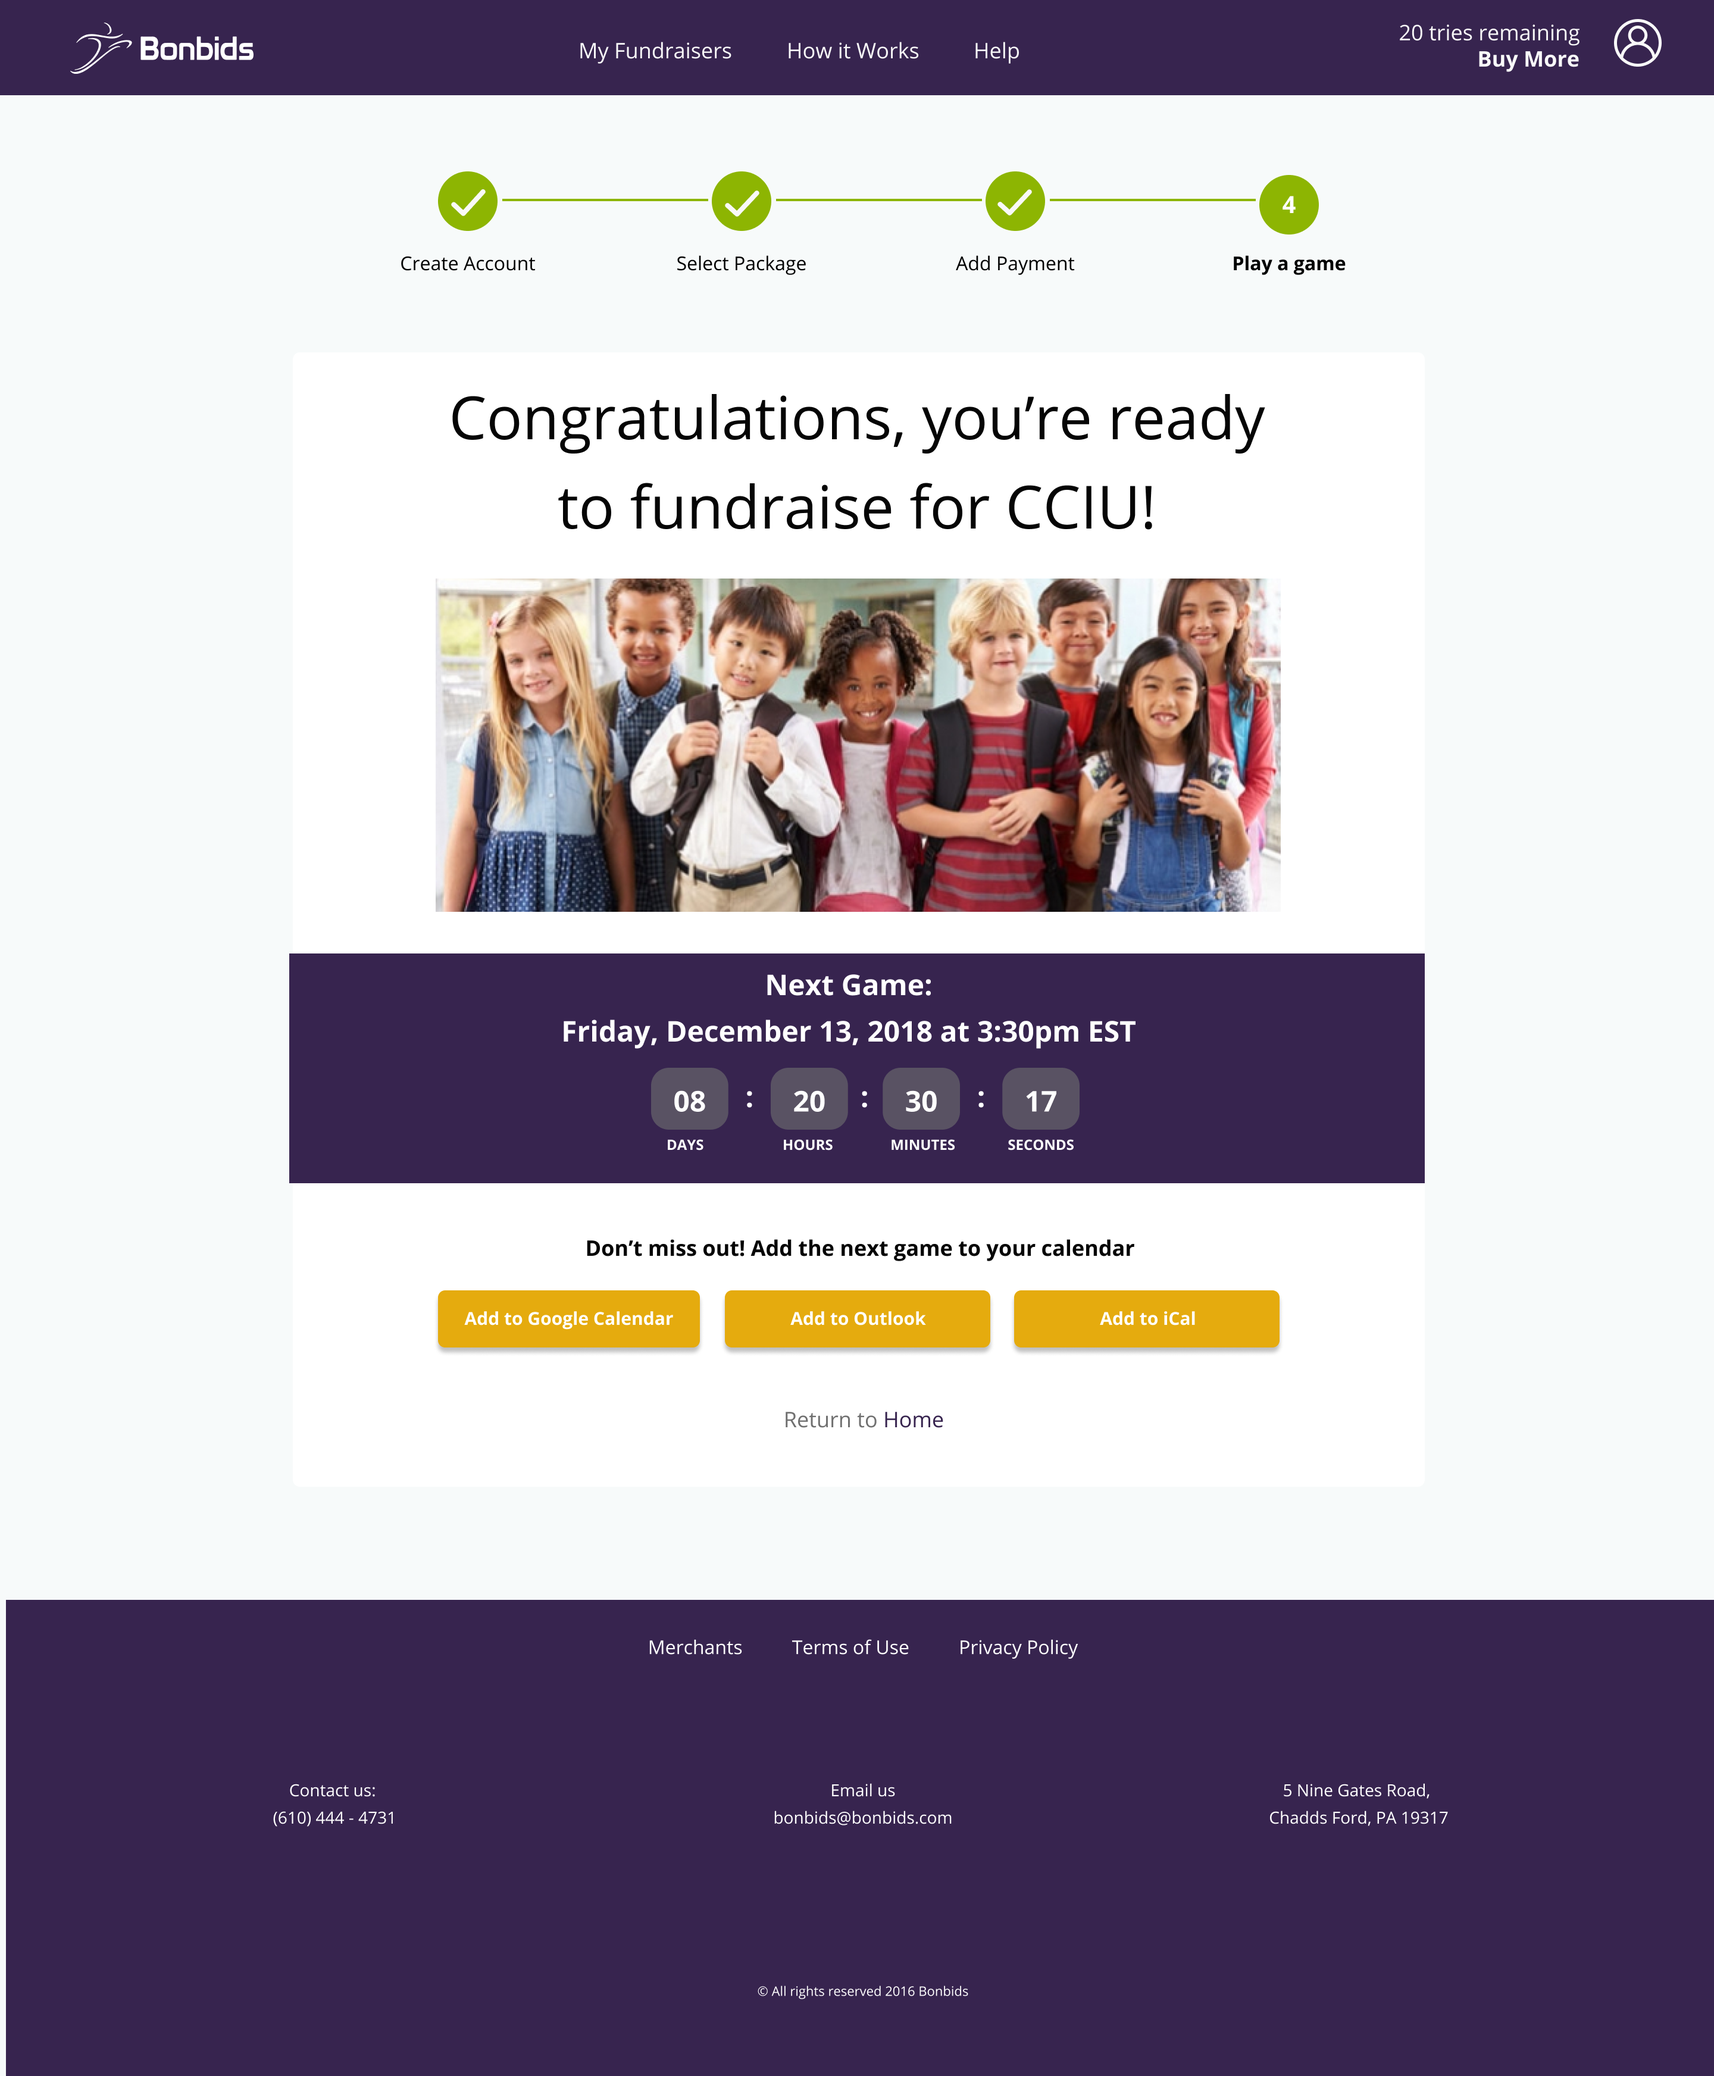
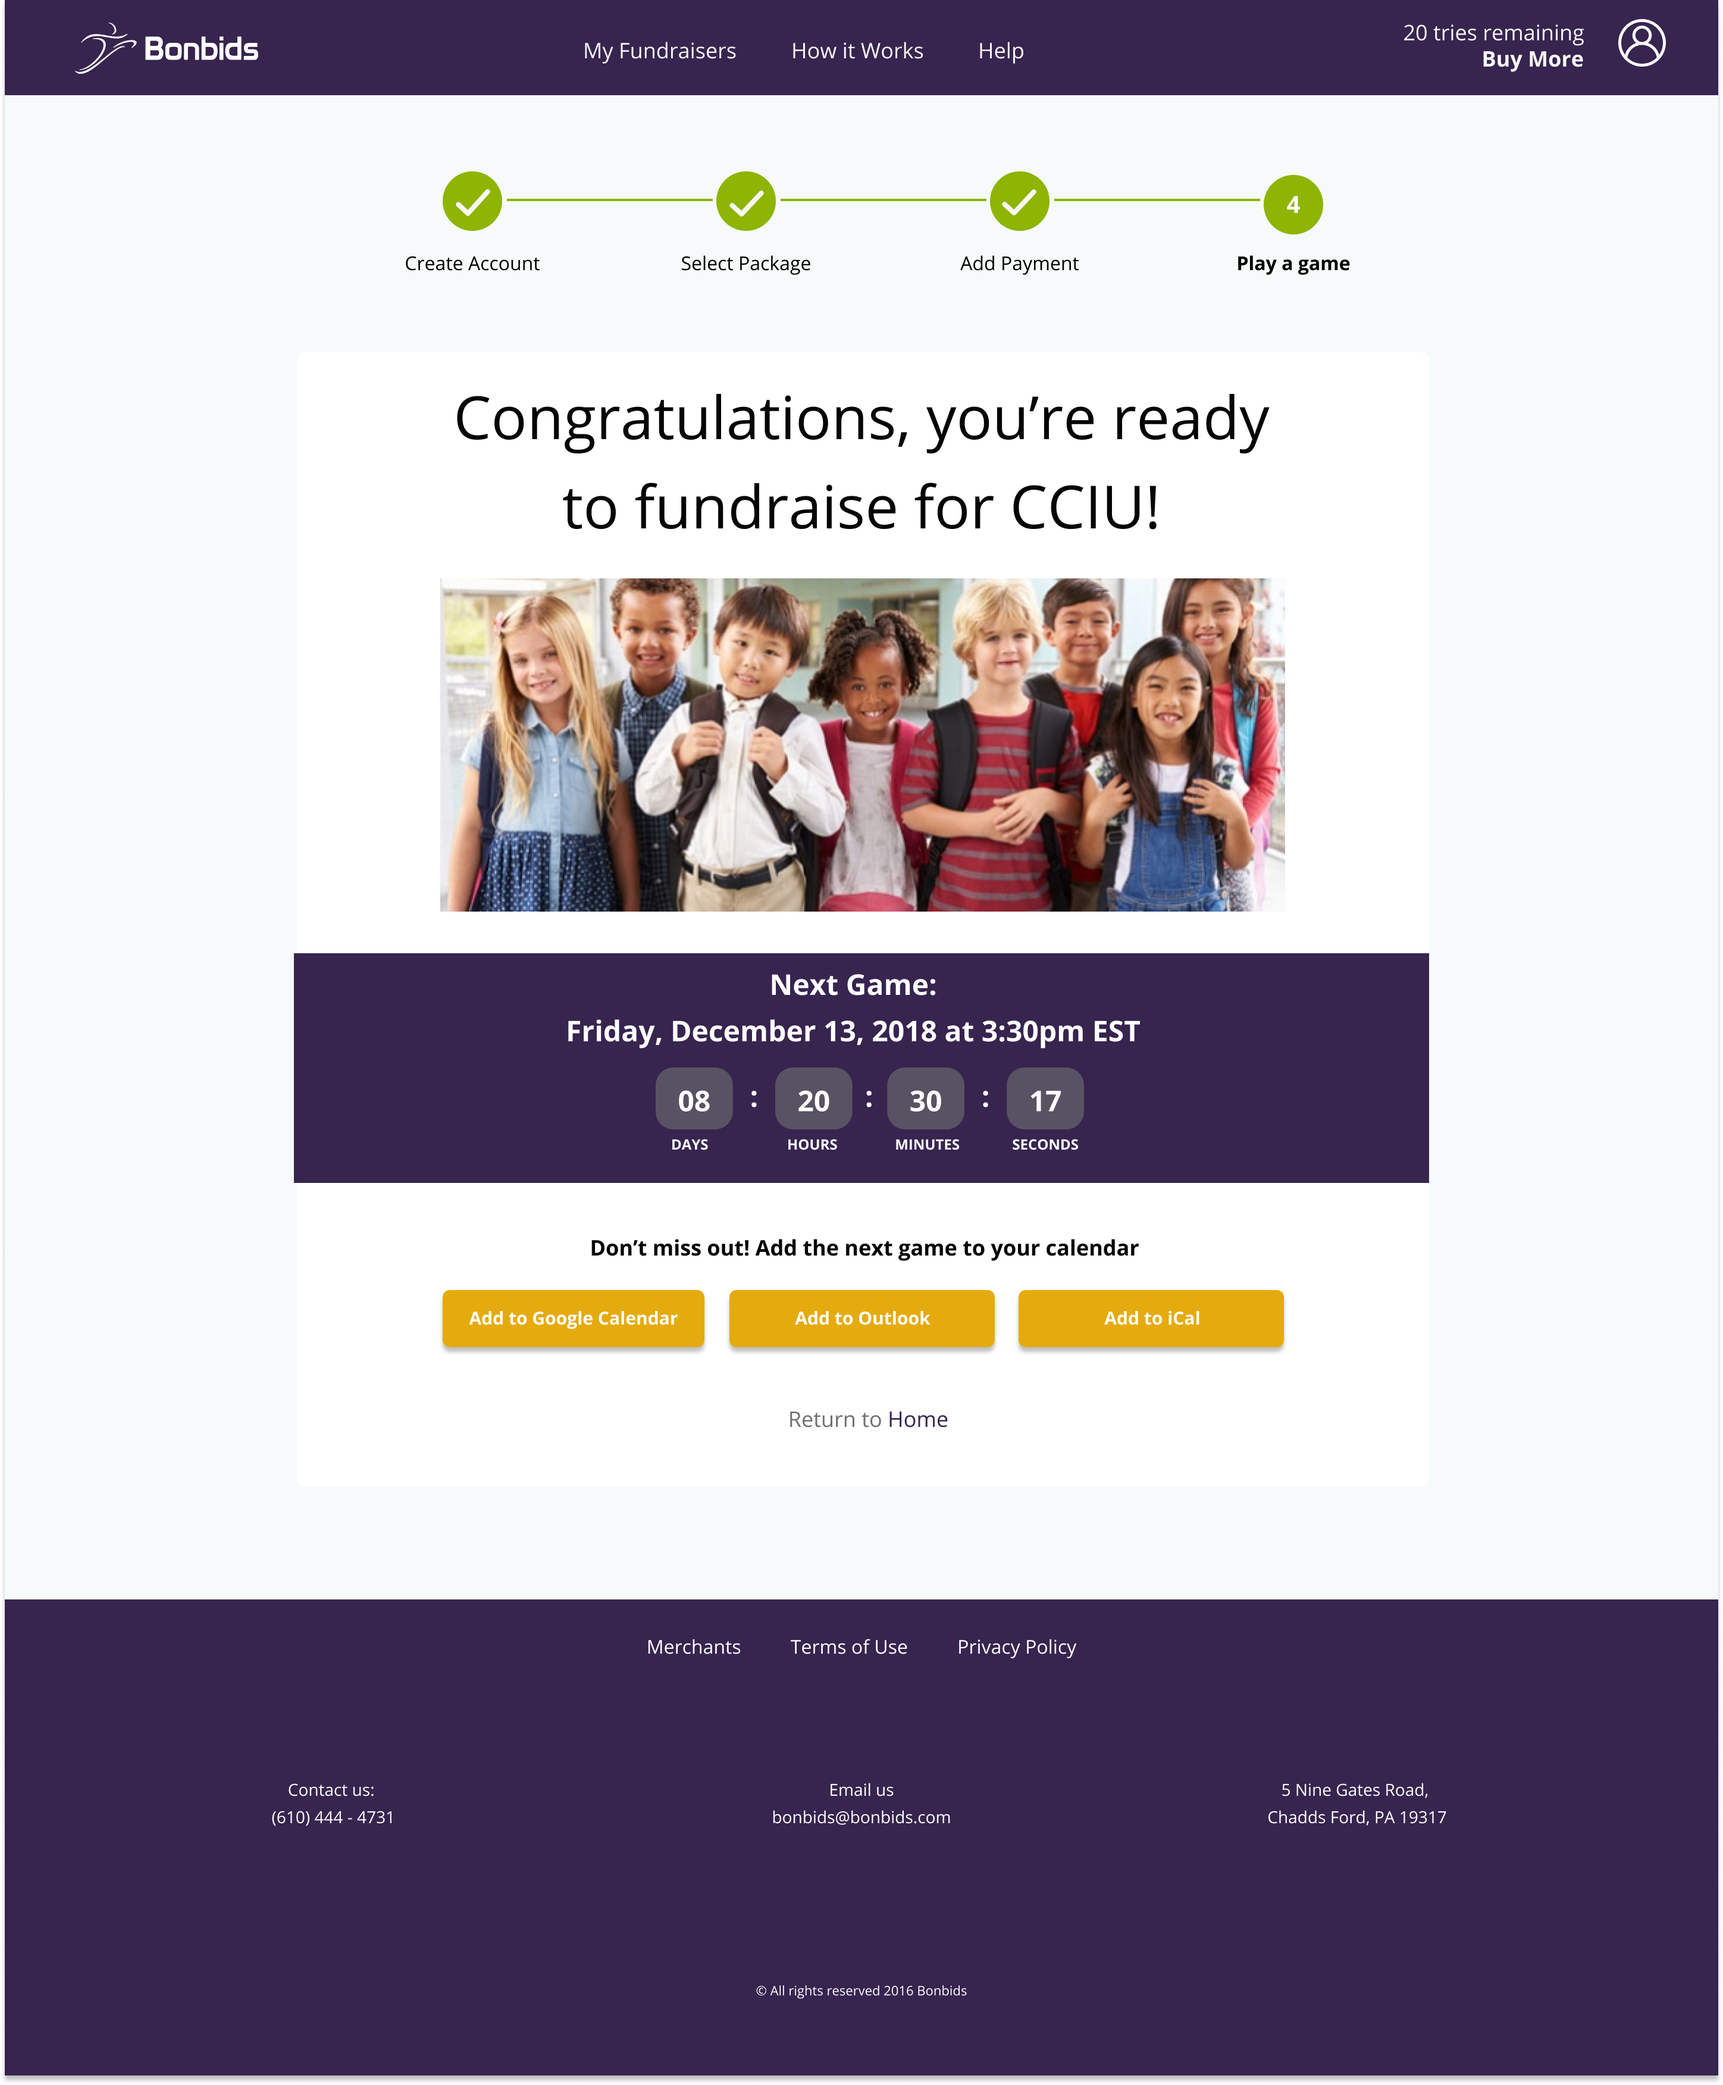
bonbids fixes

diff --git a/css/bonbids.css b/css/bonbids.css
@@ -102,10 +102,11 @@ ___________________*/
   width: 100%;
 }
 .single-image img{
-  width: 90%;
-margin: auto;
 display: block;
-padding: 3rem 3rem;
+width: 90%;
+margin: auto;
+padding-top:2rem;
+padding-bottom:2rem;
 }
 .image-description p{
   padding: 1rem 2rem 3rem 2rem;
@@ -234,16 +235,7 @@ font-size: 2.6rem;
 }
 
 /*MEDIA QUERIES*/
-@media screen and (min-width:1000px) {
-  #arrow-down {
-    display: none;
-  }
 
-  #arrow-right {
-    display: block;
-  }
-}
-}
 @media screen and (max-width:850px) {
   .case-study-screens {
     display: grid;
@@ -259,7 +251,7 @@ font-size: 2.6rem;
     }
     .before-after-with-arrow {
       display: grid;
-      grid-template-rows: 1fr .1fr 1fr;
+      grid-template-rows: 1fr .1fr .3fr;
     }
 
     .before-after-with-arrow-justify {
@@ -278,7 +270,13 @@ font-size: 2.6rem;
     display: grid;
     grid-template-columns: 1fr 1fr 1fr;
   }
+  #arrow-down {
+    display: none;
+  }
 
+  #arrow-right {
+    display: block;
+  }
   .grid-columns-2 {
     display: grid;
     grid-template-columns: 1fr 1fr;

diff --git a/bonbids.html b/bonbids.html
@@ -77,9 +77,9 @@
   </div>
   <div id="body">
     <div class="case-study-screens">
-      <img src="images/bonbids1.png">
+      <img src="images/bonbids-landing-page@2x.png">
 
-      <img src="images/bonbids2.png">
+      <img src="images/bonbids-confirmation@2x.png">
     </div>
 
   </div>
